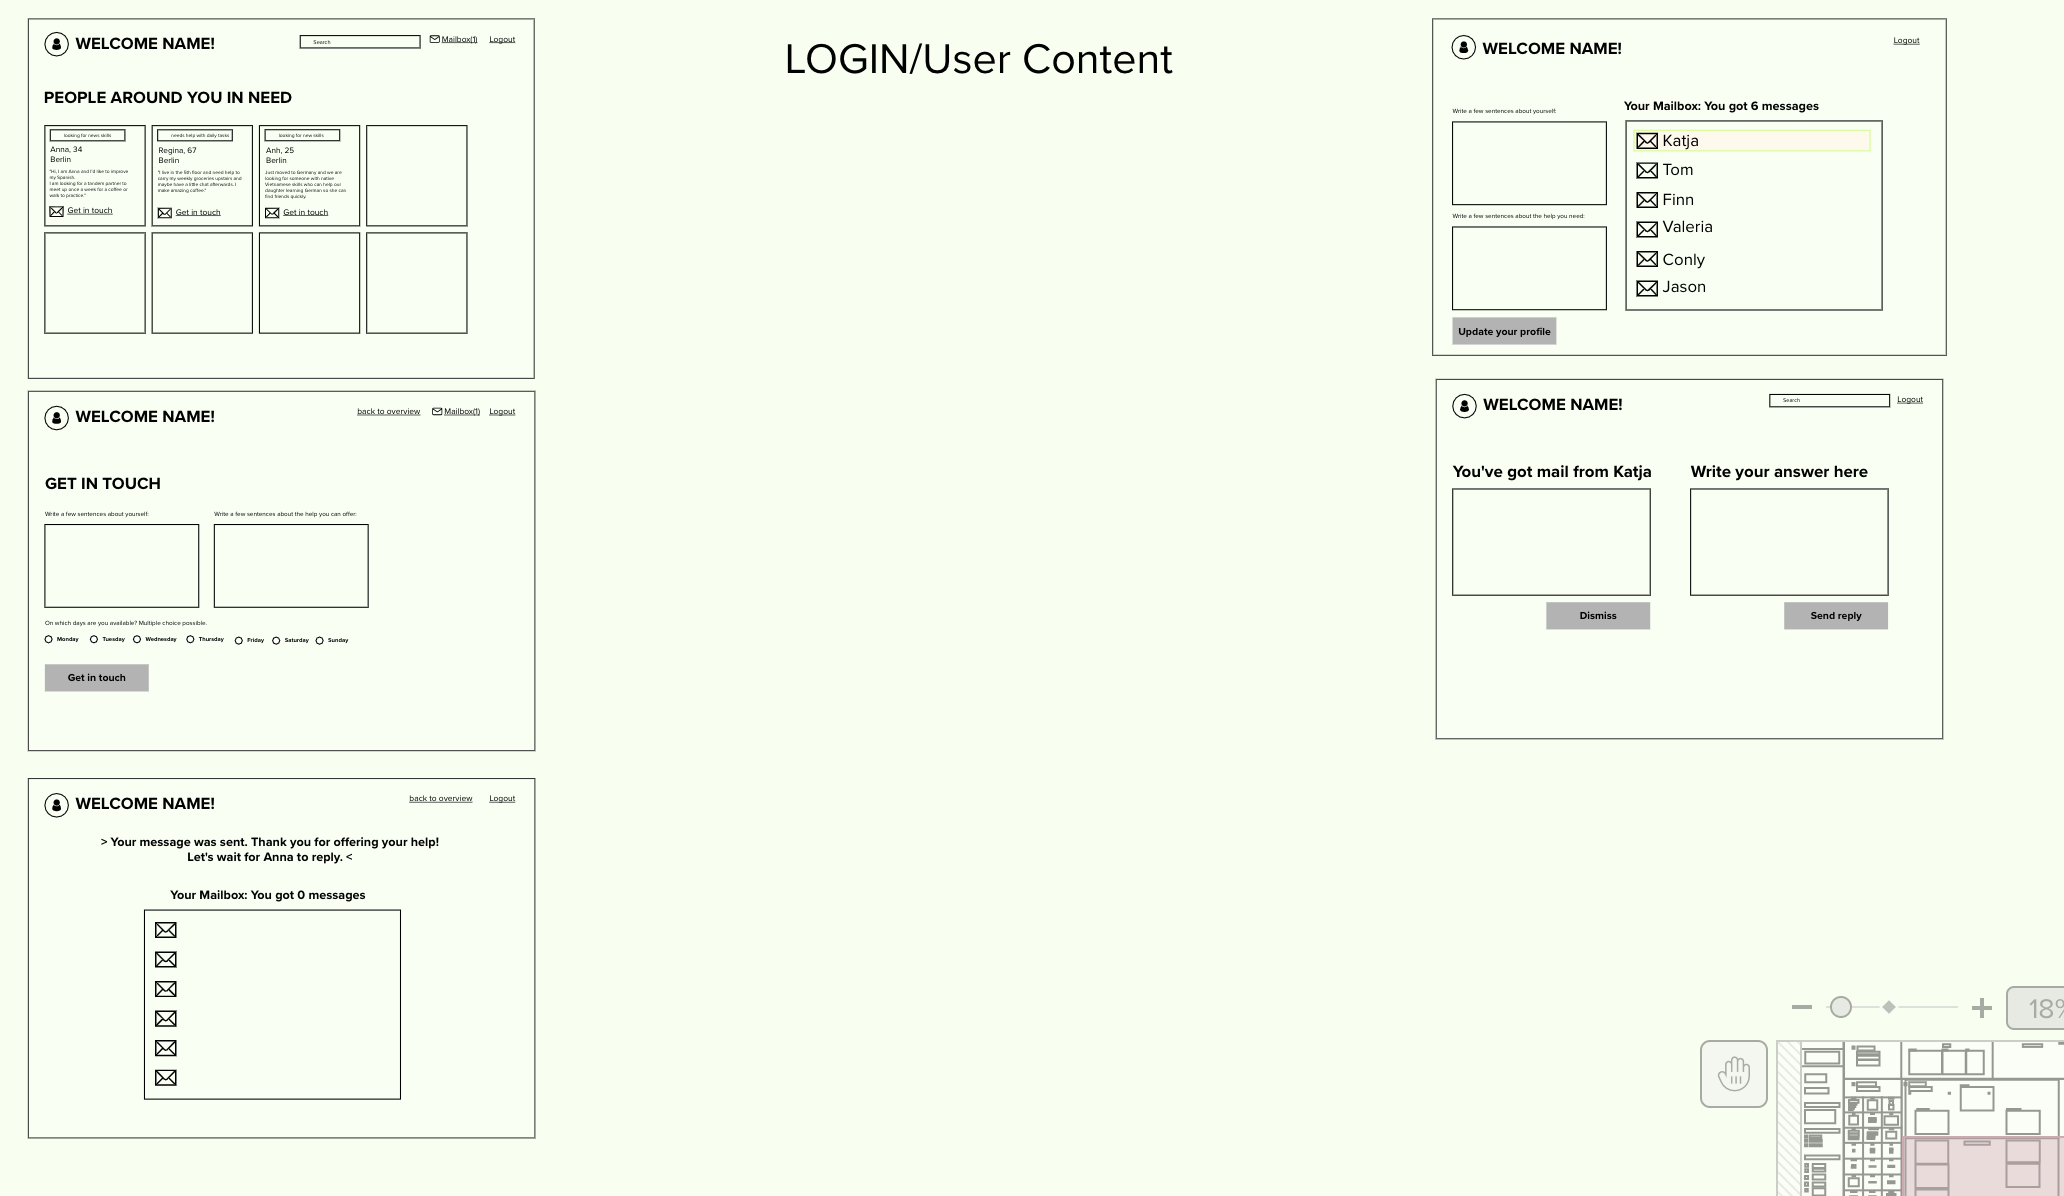
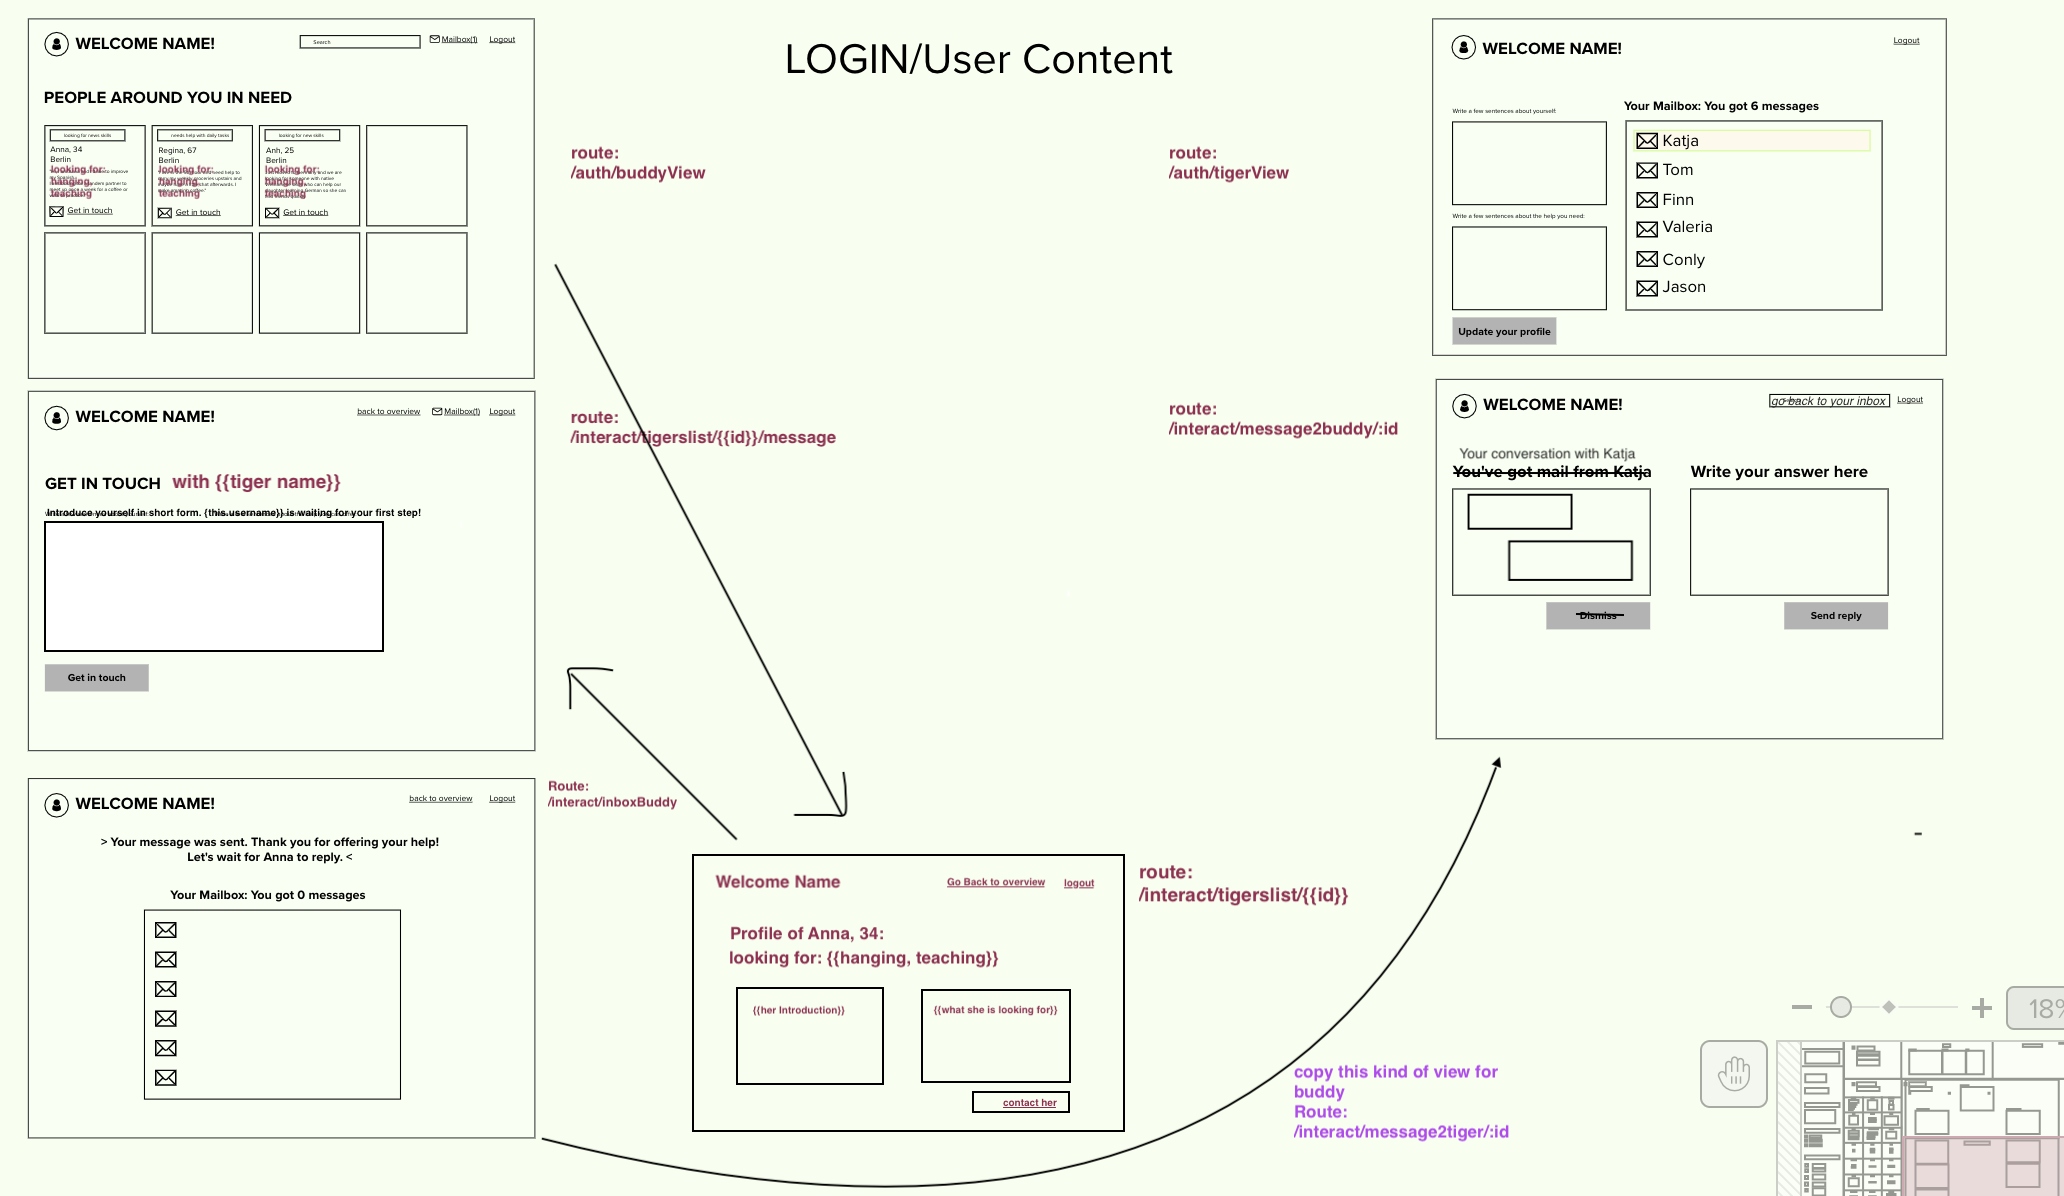
set up messaging routes

diff --git a/routes/contact.js b/routes/contact.js
@@ -3,8 +3,10 @@ const mongoose = require('mongoose');
 
 const User = require("../models/User.model");
 const Message = require("../models/Message.model");
+// const { create } = require("../models/User.model");
 
 
+////B U D D Y ___ V I E W //////
 
 //GET /tiger details
 //if buddy clicks on tiger preview (in auth/buddyView)  he gets redirected here to show the whole selfdescription of the tiger.
@@ -12,28 +14,93 @@ const Message = require("../models/Message.model");
 
 router.get('/tigerslist/:id', (req, res, next) => {
   const { id } = req.params;
-  user.findById(id)
-      .then(tigersDetails => {
-          res.render('interaction/showTigerDetails',  tigersDetails)
-      })
-      .catch(error => console.log(`Error while updating the celeb details: ${error}`))
+  User.findById(id)
+    .then(tigerDetails => {
+      res.render('interaction/showTigerDetails', tigerDetails)
+    })
+  // .catch(error => console.log(`Error while updating the celeb details: ${error}`))
 })
 
 //message to tiger
-//TODO:implememting the messaging stuff!! :)
-//
 router.get('/tigerslist/:id/message', (req, res, next) => {
-  const {id} = req.params;
-  user.findById(id)
-  .then(tigerContact => {
-    res.render('interaction/mess2tiger', tigerContact)
-  })
-  .catch(error => console.log(`Couldnt reach tiger contact: ${error}`))
+  const { id } = req.params;
+  User.findById(id)
+    .then(tigerContact => {
+      res.render('interaction/mess2tiger', tigerContact)
+    })
+  // .catch(error => console.log(`Couldnt reach tiger contact: ${error}`))
+})
+
+router.post('/tigerslist/:id/message', (req, res, next) => {
+  const message = req.body.typedMessage;
+  const userID_messageOriginBuddy = req.params.id
+  Message.create({ receiver: userID_messageOriginBuddy, sender: req.session.currentUser._id, content: message })
+    .then(() => {
+      res.redirect('/interact/inbox')
+    })
 })
 
 
+/////Inbox
+
+//inbox buddy
+router.get('/inbox', (req, res) => {
+  
+  User.findById(req.session.currentUser._id)
+    .then((user) => {
+      Message.find({ receiver: user }).populate('sender')
+        .then((myMessages) => {
+          console.log("mssg",myMessages);
+          res.render('interaction/inboxAll', { msgs: myMessages, userInSession:user })
+
+        })
+    })
+})
+
+router.post('/inbox', (req, res) => {
+  const message = req.body.typedMessage;
+  const userID_messageOriginBuddy = req.params.id
+  Message.create({ receiver: userID_messageOriginBuddy, sender: req.session.currentUser._id, content: message })
+    .then(() => {
+      res.redirect('/interact/inbox')
+    })
+})
+
+
+////T I G E R ___ V I E W //////
 //message to buddy
-//TODO:setting up setting tiger inbox and tiger replying to buddy.
+//on tigerView the tiger sees the inbox
+//By clicking on one message he goes here:
+router.get('/message2buddy/:id', (req, res) => {
+  if (!req.session.currentUser) {
+    res.send('We are sorry, you re just able to see this if you are logged in')
+    res.redirect('/auth/login');
+  }
+  else {
+    User.findById(req.session.currentUser._id)
+      .then((user) => {
+        res.render('/interact/mess2tiger/:id', {
+          userInSession: user
+        });
+
+      });
+  }
+})
+
+router.post('/message2buddy/:id', (req, res) => {
+
+  //accessing the user that has send the message the tiger wants to reply to for linking the message in the DB
+  const message = req.body.typedMessage;
+  const userID_messageOriginTiger = req.params.id
+  Message.create({ receiver: userID_messageOriginTiger, sender: req.session.currentUser._id, content: message })
+    .then(() => {
+      res.send('functions')
+    });
+})
+
+
+
+
 
 
 module.exports = router;

diff --git a/bin/seeds.js b/bin/seeds.js
@@ -9,7 +9,7 @@ mongoose.connect('mongodb://localhost/visualisesikk', {
   useUnifiedTopology: true
 });
 
-//Create an array with data > compare with user.model.js 
+//Create an array with data -> compare with user.model.js 
 
 const users = [
 
@@ -17,23 +17,71 @@ const users = [
     username: "Saime123",
     email: "saime@web.de",
     passwordHash: "$2a$10$l2BTNwNjB0ZwhLaCBI0xDeSeSnte/cvOGQ62FfSeF0saD1H3eja4C",
-    userType: 'buddy',
-    birthday: '1984-08-20',
+    usertype: "buddy",
+    birthday: 1984-08-20,
     city: 'Berlin',
     choiceOfAction: ["dailyTasks", "hangingOut", "teaching"],
-    profileInput: '',
+    profileInput: { tigerIntro: '', helpDef: '' },
   }, 
 
   {
     username: "Serafina",
     email: "serafina@mail.de",
     passwordHash: "$2a$10$/obu79sazfD5dILwK7AAA.uIFfmC5Jc.4vlfyNm/Z4rPJqt8tlLa2",
-    userType: 'inNeed',
-    birthday: '1992-08-17',
+    usertype: 'inNeed',
+    birthday: 1992-08-17,
     city: 'Berlin',
     choiceOfAction: ["dailyTasks", "hangingOut"],
-    profileInput: '',
-  }
+    profileInput: { tigerIntro: '', helpDef: '' },
+  },
+
+  {
+    username: "Maik",
+    email: "maik@web.de",
+    passwordHash: "$2a$10$ulTByvGRZHK6J.T5Z.ggZ.orEl2kbsH5HwnTIeCDTKWhNpu9J3S/q",
+    // Password: Maik123
+    usertype: 'buddy',
+    birthday: 3003-03-03,
+    city: 'Berlin',
+    choiceOfAction: ['dailyTasks', 'teaching'],
+    profileInput: { tigerIntro: '', helpDef: '' },
+  },
+
+  {
+    username: "Giovanni",
+    email: "giovanni@web.de",
+    passwordHash: "$2a$10$qCksGiBWyWQ85c677ezwoe856XlfI.oT/lWlnBnhELbSXO6kWE/1.",
+    // Password: Giovanni123
+    usertype: 'buddy',
+    birthday: 3003-03-03,
+    city: 'Kiel',
+    choiceOfAction: ['dailyTasks'],
+    profileInput: { tigerIntro: '', helpDef: '' }
+  },
+
+  {
+    username: "Meike",
+    email: "meike@web.de",
+    passwordHash: "$2a$10$CYSgVxoBeAB6yR3j5/xxSuvU.77hvwENiBWADOFdkQu.lpbybr77m",
+    // Password: Meike123
+    usertype: 'inNeed',
+    birthday: 3003-03-30,
+    city: 'Kiel',
+    choiceOfAction: ['dailyTasks', 'hangingOut', 'teaching'],
+    profileInput: { tigerIntro: '', helpDef: '' }
+  },
+
+  {
+    username: "Gisela",
+    email: "gisela@web.de",
+    passwordHash: "$2a$10$Q2KGSS3j4XI3MpfPdCKeb.I.dQV6m0mzB/g6E1xyQRKRVvrwXOkS.",
+    // Password: Gisela123
+    usertype: 'inNeed',
+    birthday: 2002-03-20,
+    city: 'Kiel',
+    choiceOfAction: ['dailyTasks'],
+    profileInput: { tigerIntro: '', helpDef: '' }
+  },
 
 ]
 
@@ -50,7 +98,8 @@ User.create(users)
     mongoose.connection.close();
   })
   .catch((err) => {
-    console.log('error with seed', err)
+    console.log('error with seed', err);
+    mongoose.connection.close();
   });
 
 

diff --git a/routes/auth-routes.js b/routes/auth-routes.js
@@ -75,7 +75,7 @@ router.post("/signup/buddy", (req, res, next) => {
 
         .then(userFromDB => {
             console.log('A new buddy has joined the pool: ', userFromDB);
-            res.redirect('/auth/buddyView');
+            res.redirect('/auth/login');
         })
         .catch(error => {
             if (error instanceof mongoose.Error.ValidationError) {
@@ -181,12 +181,12 @@ router.post("/signup/tiger", (req, res, next) => {
     //create a hashed version of the password:
     const hash1 = bcrypt.hashSync(password1, salt);
 
-    User.create({ username: username, email: email, passwordHash: hash1, usertype: "inNeed", city: city, bithday: birthday, choiceOfAction: choiceOfAction })
+    User.create({ username: username, email: email, passwordHash: hash1, usertype: "inNeed", city: city, birthday: birthday, choiceOfAction: choiceOfAction })
 
         .then(userFromDB => {
             console.log('A new buddy has joined the pool: ', userFromDB);
 
-            res.redirect('/auth/tigerView');
+            res.redirect('/auth/login');
         })
         .catch(error => {
             if (error instanceof mongoose.Error.ValidationError) {

diff --git a/public/stylesheets/style.css b/public/stylesheets/style.css
@@ -48,11 +48,15 @@ a {
   justify-content: space-between;
 }
 
-.navbarUserWrapper {
+.navbarUserWrapper{
   display: flex;
   flex-direction: row;
-  justify-content: space-around;
+  justify-content: flex-end;
   align-items: center;
+}
+
+.navbarUserWrapper li {
+  justify-content: flex-end;
 }
 
 h1 {
@@ -271,6 +275,11 @@ input[type="checkbox"] {
   text-transform: uppercase;
   transition: 0.3s ease background;
   border: none;
+}
+
+.update-Btn a{
+  text-decoration: none;
+  color: #fff;
 }
 
 .update-Btn:hover{
